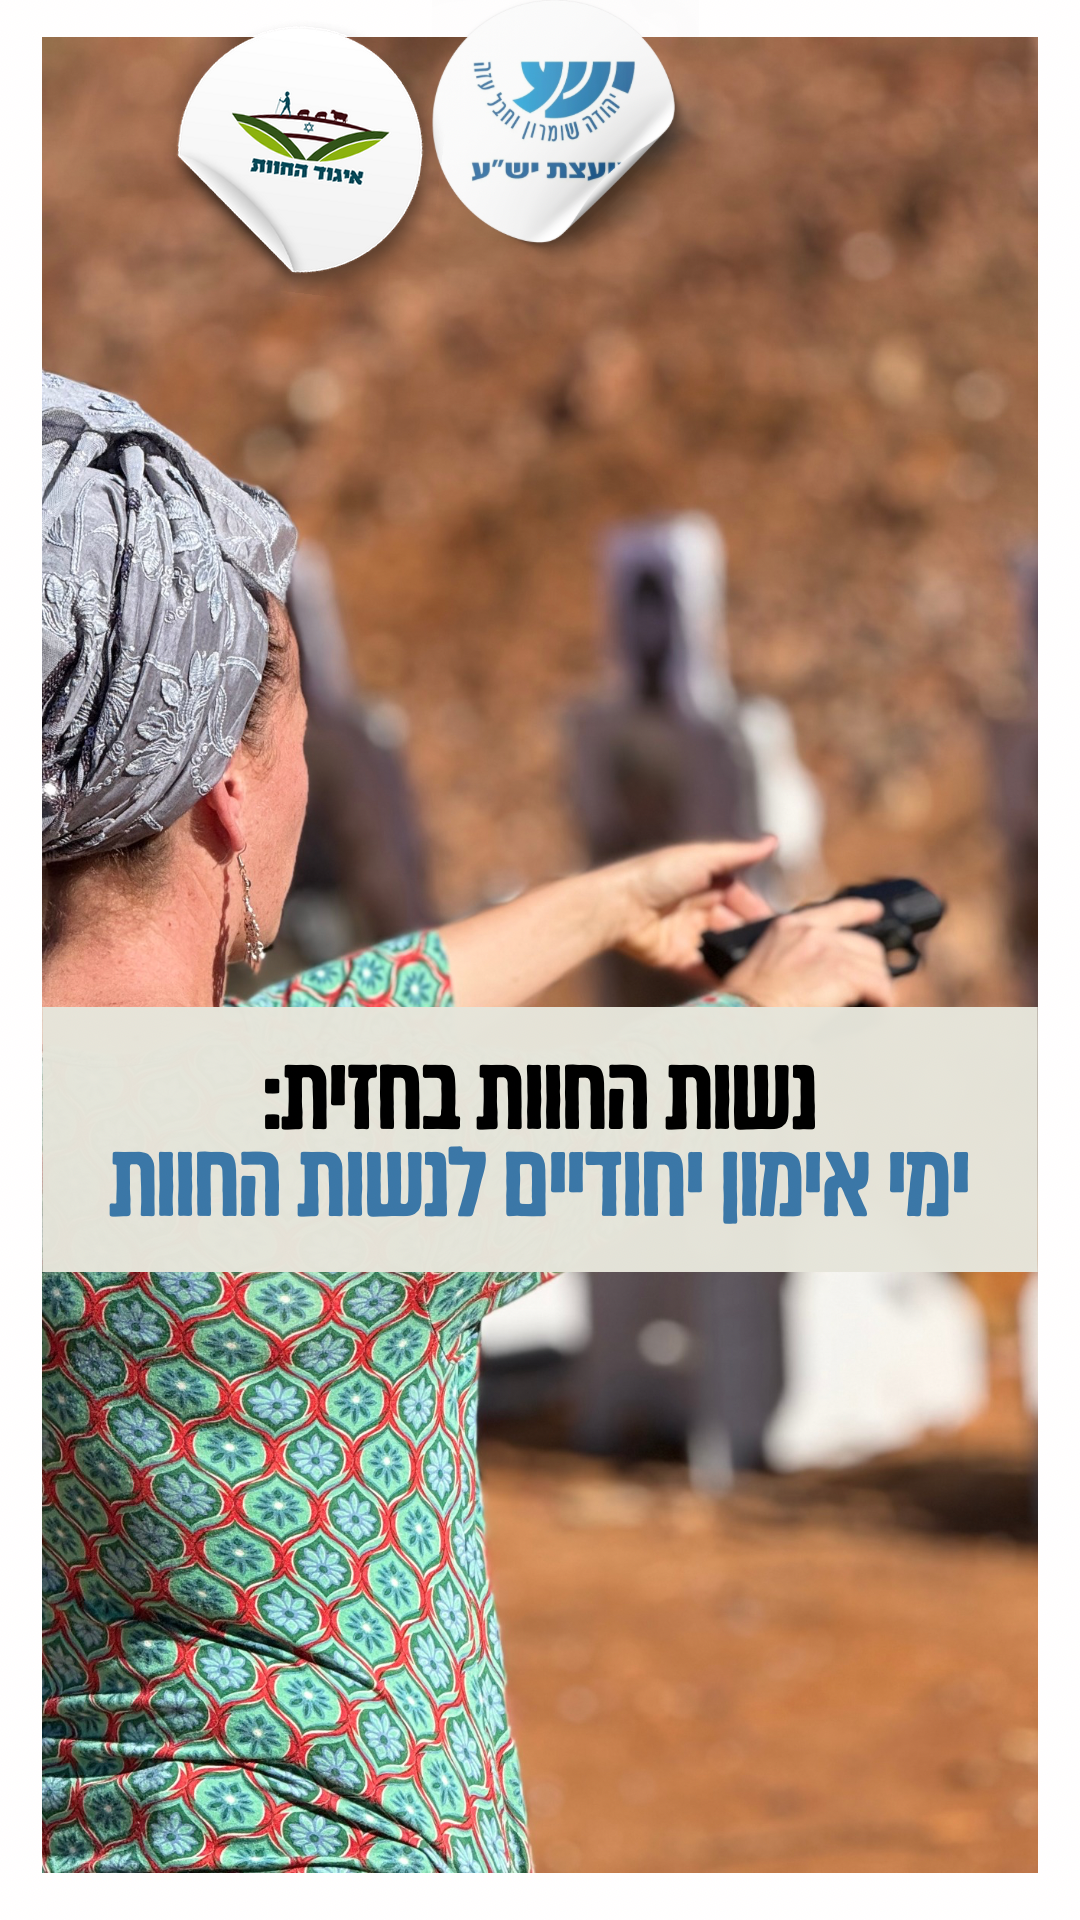
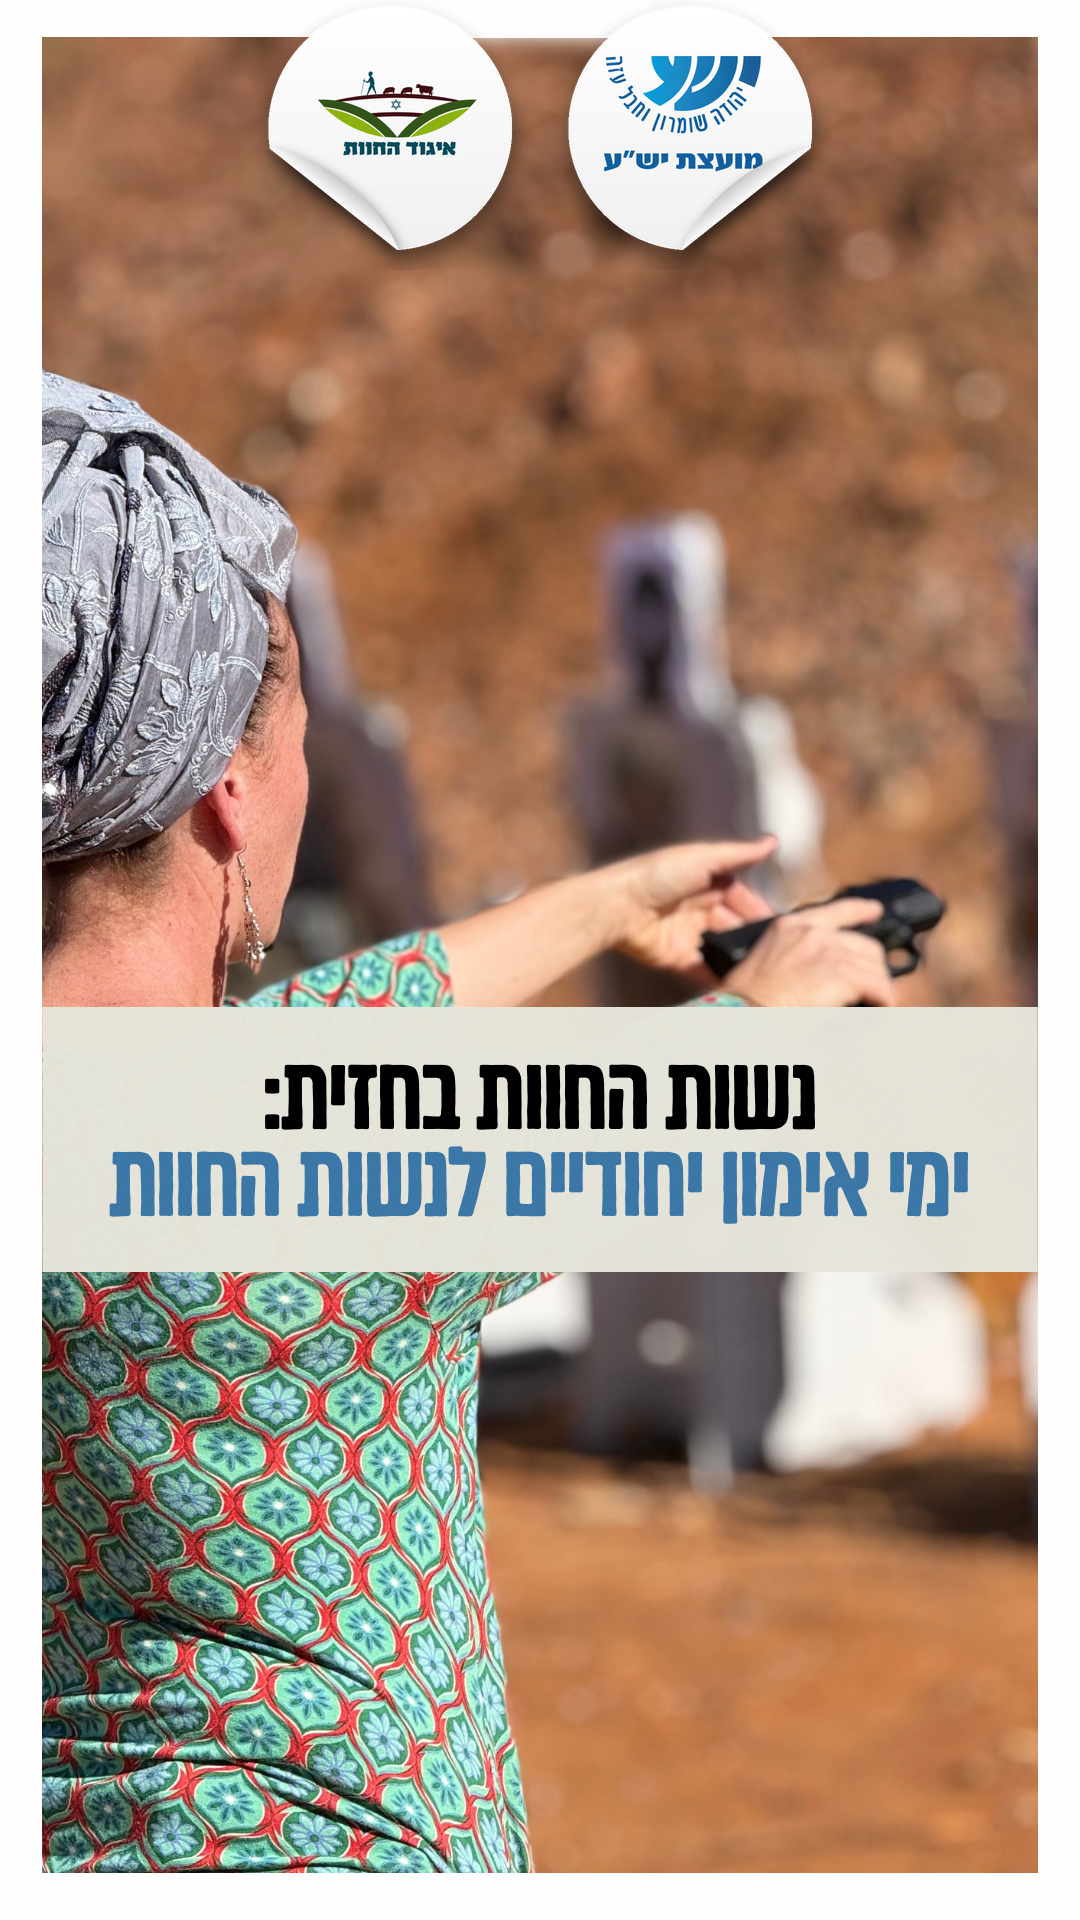
Yesha cover: symmetric sticker pair (Yesha right, Farms Union left)
Claude-Session: https://claude.ai/code/session_01RS3QK6pAd3YhyAuXZSJjH1

Changed region(s): [[0.1528, 0.0, 0.7639, 0.1562]]

diff --git a/content-kit/yesha/2026-11-reel-eshet-hayil/cover/make_cover.py b/content-kit/yesha/2026-11-reel-eshet-hayil/cover/make_cover.py
@@ -5,13 +5,13 @@ HERE = os.path.dirname(os.path.abspath(__file__))
 im = Image.open(HERE + '/cover_src.png').convert('RGBA')
 S = 2  # supersample
 R = 122 * S; D = 2 * R + 40 * S
-def sticker():
+def sticker(logo_path, mirror=False):
     c = Image.new('RGBA', (D, D), (0, 0, 0, 0))
     cx = cy = D // 2
     yy, xx = np.mgrid[0:D, 0:D]
     inside = (xx - cx) ** 2 + (yy - cy) ** 2 <= R ** 2
     # fold line near the lower-left edge
-    n = np.array([-.62, .78]); n /= np.linalg.norm(n); off = R * .74
+    n = np.array([.62 if mirror else -.62, .78]); n /= np.linalg.norm(n); off = R * .74
     dist = (xx - cx) * n[0] + (yy - cy) * n[1] - off
     body = inside & (dist <= 0)
     paper = np.zeros((D, D, 4), np.float32)
@@ -27,21 +27,33 @@ def sticker():
     body_im = Image.fromarray(paper.astype(np.uint8), 'RGBA')
     flap_im = Image.fromarray(flap.astype(np.uint8), 'RGBA').filter(ImageFilter.MaxFilter(3))
     # logo
-    lg = Image.open(HERE + '/../src/igud_hachavot.png').convert('RGBA'); lg = lg.crop(lg.getbbox())
+    lg = Image.open(logo_path).convert('RGBA'); lg = lg.crop(lg.getbbox())
     lg.thumbnail((int(R * 1.3), int(R * .95)), Image.LANCZOS)
-    body_im.alpha_composite(lg, (cx - lg.width // 2 + int(R * .06), cy - lg.height // 2 - int(R * .12)))
+    body_im.alpha_composite(lg, (cx - lg.width // 2 + int(R * (-.06 if mirror else .06)), cy - lg.height // 2 - int(R * .12)))
     body_im.putalpha(Image.fromarray(np.minimum(np.asarray(body_im.getchannel('A')), (body * 255).astype(np.uint8))))
     # shadows
     out = Image.new('RGBA', (D, D), (0, 0, 0, 0))
     sh = body_im.getchannel('A').filter(ImageFilter.GaussianBlur(10 * S)).point(lambda v: int(v * .45))
-    out.paste((0, 0, 0, 255), (6 * S, 12 * S), sh)
+    out.paste((0, 0, 0, 255), (0, 12 * S), sh)
     out.alpha_composite(body_im)
     fsh = flap_im.getchannel('A').filter(ImageFilter.GaussianBlur(6 * S)).point(lambda v: int(v * .5))
     t = Image.new('RGBA', (D, D), (0, 0, 0, 0)); t.putalpha(fsh); out.alpha_composite(t, (3 * S, 6 * S))
     out.alpha_composite(flap_im)
     return out.resize((D // S, D // S), Image.LANCZOS)
-st = sticker().rotate(-7, resample=Image.BICUBIC, expand=True)
-# Yesha sticker centre ~ (552, 120); put the union sticker to its left, a touch lower (playful pair)
-cx, cy = 300, 150
-im.alpha_composite(st, (cx - st.width // 2, cy - st.height // 2))
+import cv2
+# 1) remove the original Yesha sticker (centre ~(552,120)) so the pair can be placed symmetrically
+a = np.asarray(im.convert('RGB')).copy()
+m = np.zeros(a.shape[:2], np.uint8); cv2.circle(m, (556, 124), 152, 255, -1)
+a[:38][m[:38] > 0] = (255, 254, 254)                      # white frame strip
+mp = m.copy(); mp[:38] = 0
+src = np.roll(a, -300, axis=1)                              # same horizontal band of bokeh, 300px to the right
+soft = cv2.GaussianBlur(mp, (0, 0), 10).astype(np.float32)[..., None] / 255
+a = (a * (1 - soft) + src * soft).astype(np.uint8); a[:38][m[:38] > 0] = (255, 254, 254)
+im = Image.fromarray(a).convert('RGBA')
+# 2) two matching stickers, mirrored around the centre: Yesha right, Farms Union left
+ye = sticker(HERE + '/../../../clients/yesha/logo.png', mirror=True)
+un = sticker(HERE + '/../src/igud_hachavot.png', mirror=False)
+CY, DX = 128, 150
+for st, cx in [(un, 540 - DX), (ye, 540 + DX)]:
+    im.alpha_composite(st, (cx - st.width // 2, CY - st.height // 2))
 im.convert('RGB').save(HERE + '/cover.png'); print('ok')
